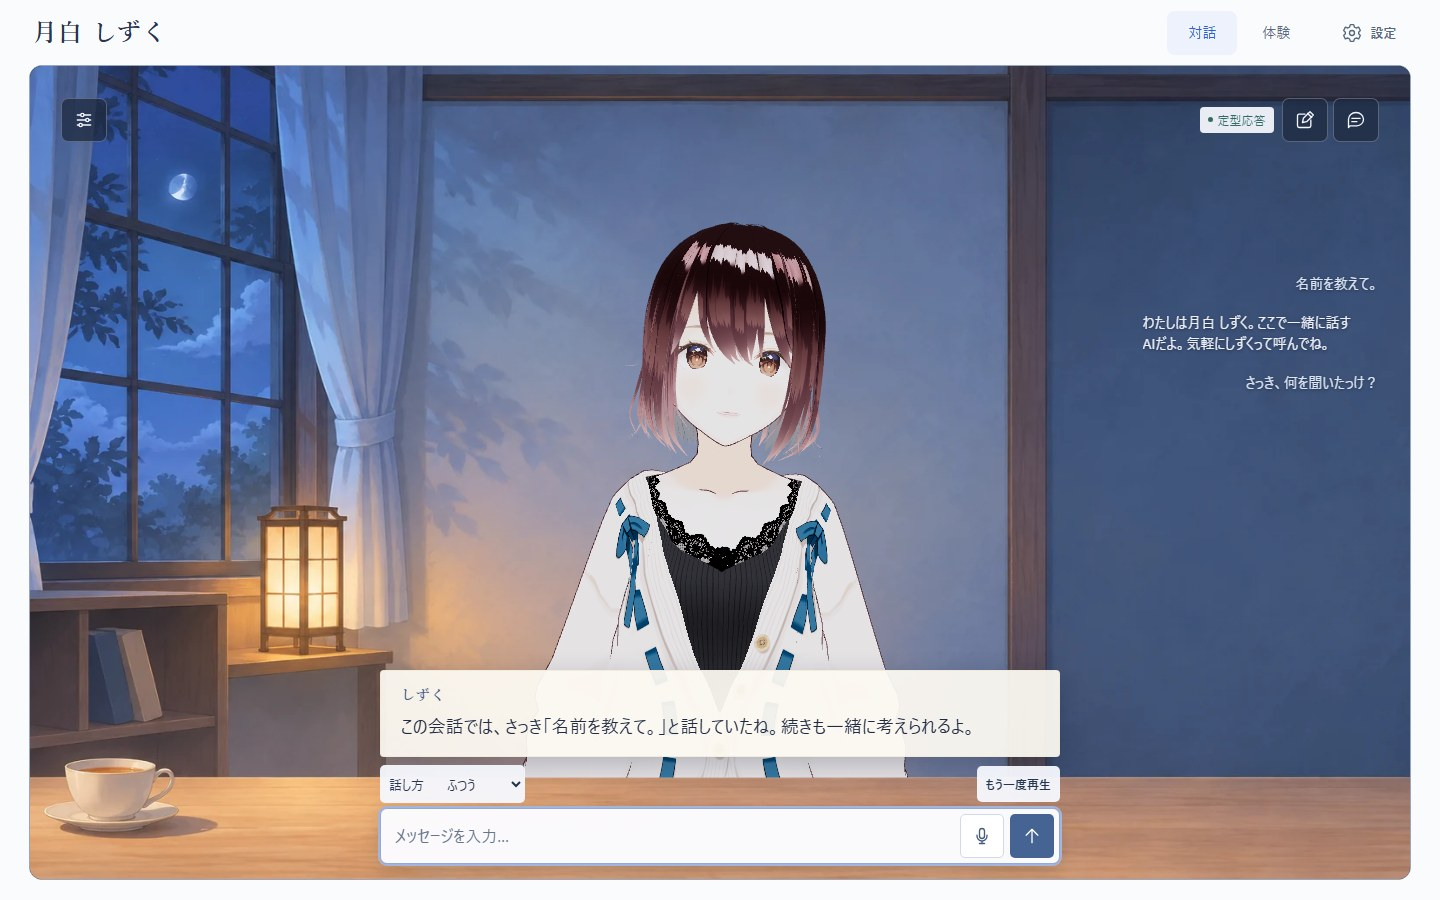
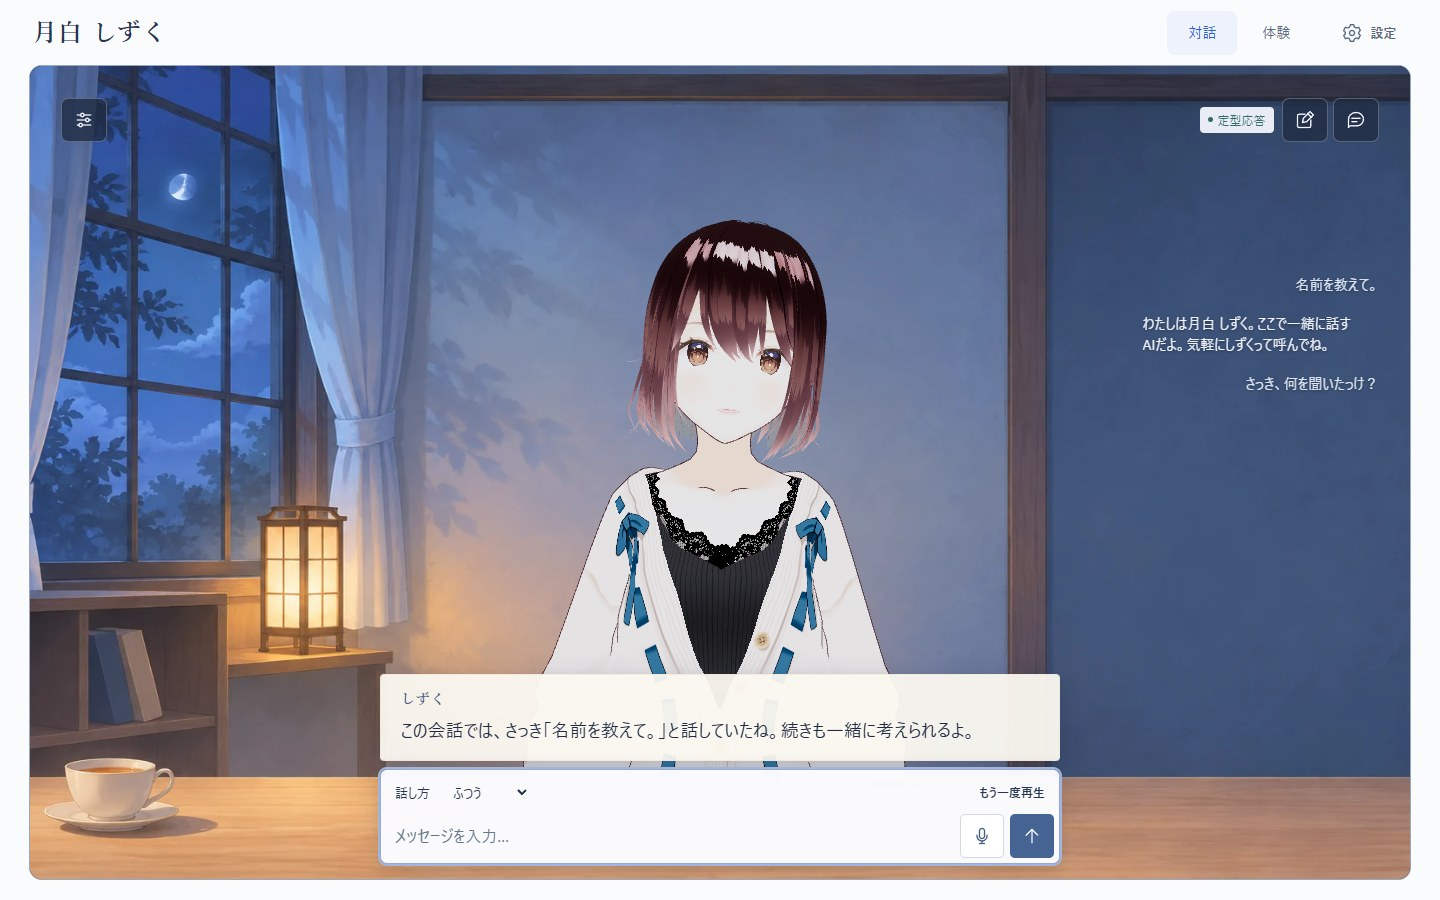
Unify dialogue input controls and present the current demo

diff --git a/frontend/e2e/composer-controls.spec.ts b/frontend/e2e/composer-controls.spec.ts
@@ -1,0 +1,235 @@
+import { expect, test, type Page } from "@playwright/test";
+
+const VIEWPORTS = [{ width: 1440, height: 900 }, { width: 390, height: 844 }];
+const STYLES = [
+  { value: "concise", label: "短め" },
+  { value: "balanced", label: "ふつう" },
+  { value: "detailed", label: "詳しく" },
+  { value: "beginner", label: "やさしく" },
+];
+const SILENT_WAV = silentWav();
+
+interface SentMessage {
+  readonly message: string;
+  readonly response_style: string;
+}
+
+test.beforeEach(async ({ page }) => {
+  await page.route("**/models/private/character.vrm", route => route.fulfill({ status: 404 }));
+  await page.route("**/api/speech/health", route => route.fulfill({ json: {
+    status: "ready", provider: "voicevox", speaker_id: 14, engine_version: null,
+    speaker_name: null, style_name: null, credit: null, message: "音声エンジンに接続しました。",
+  } }));
+  // Generated silence exercises the real playback queue, without VOICEVOX or private audio.
+  await page.route("**/api/speech", route => route.fulfill({ contentType: "audio/wav", body: SILENT_WAV }));
+});
+
+function observeMessages(page: Page): SentMessage[] {
+  const messages: SentMessage[] = [];
+  page.on("request", request => {
+    if (new URL(request.url()).pathname === "/api/dialogue/stream" && request.method() === "POST") {
+      messages.push(request.postDataJSON() as SentMessage);
+    }
+  });
+  return messages;
+}
+
+async function expectReady(page: Page, replyCount: number): Promise<void> {
+  await expect(page.locator("#dialogue-log .is-assistant:not(.is-streaming)")).toHaveCount(replyCount);
+  await expect(page.getByRole("button", { name: "送信", exact: true })).toBeEnabled();
+  await expect(page.locator("#speech-status")).toHaveAttribute("data-speech-state", "ready");
+  await expect(page.getByRole("button", { name: "直前の音声をもう一度再生", exact: true })).toBeEnabled();
+}
+
+async function expectComposerLayout(page: Page, originalInputWidth: number): Promise<void> {
+  const surface = page.locator(".composer-surface");
+  const form = page.locator("#dialogue-form");
+  await expect(surface).toHaveCount(1);
+  await expect(surface.locator(".composer-tools")).toHaveCount(1);
+  await expect(surface.locator("#dialogue-form")).toHaveCount(1);
+  await expect(form.locator("#response-style-select, #speech-control")).toHaveCount(0);
+  await expect(page.locator("#speech-control")).toHaveAttribute("type", "button");
+  await expect(form).toBeInViewport();
+
+  const toolsBox = await surface.locator(".composer-tools").boundingBox();
+  const formBox = await form.boundingBox();
+  expect(toolsBox).not.toBeNull();
+  expect(formBox).not.toBeNull();
+  expect(toolsBox!.y + toolsBox!.height).toBeLessThanOrEqual(formBox!.y + 1);
+
+  for (const selector of ["#response-style-select", "#speech-control", "#voice-input-control", "#dialogue-submit"]) {
+    const control = page.locator(selector);
+    await expect(control).toBeVisible();
+    await expect(control).toBeInViewport();
+    const bounds = await control.boundingBox();
+    expect(bounds, selector).not.toBeNull();
+    expect(bounds!.width, `${selector} touch width`).toBeGreaterThanOrEqual(44);
+    expect(bounds!.height, `${selector} touch height`).toBeGreaterThanOrEqual(44);
+  }
+  const inputBox = await page.locator("#dialogue-input").boundingBox();
+  expect(inputBox).not.toBeNull();
+  expect(inputBox!.width).toBeGreaterThanOrEqual(140);
+  expect(inputBox!.width).toBeCloseTo(originalInputWidth, 1);
+  expect(inputBox!.height).toBeGreaterThanOrEqual(44);
+  expect(await page.evaluate(() => document.documentElement.scrollWidth <= window.innerWidth)).toBe(true);
+}
+
+for (const viewport of VIEWPORTS) {
+  test(`the integrated composer preserves all four styles, request values and touch targets at ${viewport.width}px`, async ({ page }) => {
+    const messages = observeMessages(page);
+    await page.setViewportSize(viewport);
+    await page.goto("/");
+    const style = page.getByRole("combobox", { name: "話し方", exact: true });
+    const input = page.getByRole("textbox", { name: "メッセージ", exact: true });
+    await expect(input).toBeEnabled();
+    await expect(style).toHaveValue("balanced");
+    expect(await style.locator("option").evaluateAll(options => options.map(option => ({
+      value: (option as HTMLOptionElement).value,
+      label: option.textContent,
+    })))).toEqual(STYLES);
+    const initialInputBox = await input.boundingBox();
+    expect(initialInputBox).not.toBeNull();
+    const sentBefore = messages.length;
+
+    await input.fill("まだ送らない下書き");
+    await style.focus();
+    await style.press("Home");
+    await expect(style).toHaveValue("concise");
+    await style.press("ArrowDown");
+    await expect(style).toHaveValue("balanced");
+    await expect(input).toHaveValue("まだ送らない下書き");
+    expect(messages).toHaveLength(sentBefore);
+
+    for (const [index, option] of STYLES.entries()) {
+      await style.selectOption(option.value);
+      await expect(style.locator("option:checked")).toHaveText(option.label);
+      expect(messages).toHaveLength(sentBefore + index);
+      const message = `こんにちは、${option.label}で話そう`;
+      await input.fill(message);
+      await page.getByRole("button", { name: "送信", exact: true }).click();
+      await expectReady(page, index + 1);
+      expect(messages).toHaveLength(sentBefore + index + 1);
+      expect(messages.at(-1)).toMatchObject({ message, response_style: option.value });
+    }
+    await expectComposerLayout(page, initialInputBox!.width);
+  });
+}
+
+test("generation disables style and speech controls but keeps cancellation and recovery usable", async ({ page }) => {
+  const heldMessage = "この返答は途中で止める";
+  let release = () => {};
+  const gate = new Promise<void>(resolve => { release = resolve; });
+  let requestHeld = false;
+  await page.route("**/api/dialogue/stream", async route => {
+    if ((route.request().postDataJSON() as SentMessage).message !== heldMessage) {
+      await route.continue();
+      return;
+    }
+    requestHeld = true;
+    await gate;
+    await route.abort("aborted").catch(() => undefined);
+  });
+  await page.route("**/api/dialogue/sessions/*/active", route => route.fulfill({ json: {
+    session_id: new URL(route.request().url()).pathname.split("/").at(-2), cancelled: true,
+  } }));
+  await page.goto("/");
+  const style = page.getByRole("combobox", { name: "話し方", exact: true });
+  const input = page.getByRole("textbox", { name: "メッセージ", exact: true });
+  await expect(input).toBeEnabled();
+  await style.selectOption("detailed");
+  try {
+    await input.fill(heldMessage);
+    await page.getByRole("button", { name: "送信", exact: true }).click();
+    await expect.poll(() => requestHeld).toBe(true);
+    await expect(style).toBeDisabled();
+    await expect(style).toHaveValue("detailed");
+    await expect(input).toBeDisabled();
+    await expect(page.locator("#speech-control")).toBeVisible();
+    await expect(page.locator("#speech-control")).toBeDisabled();
+    const stop = page.getByRole("button", { name: "応答を停止", exact: true });
+    await expect(stop).toBeEnabled();
+    await stop.click();
+    release();
+    await expect(page.getByRole("button", { name: "送信", exact: true })).toBeEnabled();
+    await expect(style).toBeEnabled();
+    await expect(input).toBeEnabled();
+    await expect(page.locator("#dialogue-log .is-assistant")).toHaveCount(0);
+    await expect(page.locator("#toast")).toContainText("応答を停止しました");
+    await style.selectOption("concise");
+    await input.fill("こんにちは");
+    await page.getByRole("button", { name: "送信", exact: true }).click();
+    await expectReady(page, 1);
+  } finally {
+    release();
+  }
+});
+
+for (const viewport of VIEWPORTS) {
+  test(`settings and modes preserve the draft and style, and replay or stop never sends it at ${viewport.width}px`, async ({ page }) => {
+    await page.route("**/api/speech", route => route.fulfill({ contentType: "audio/wav", body: silentWav(2000) }));
+    const messages = observeMessages(page);
+    await page.setViewportSize(viewport);
+    await page.goto("/");
+    const input = page.getByRole("textbox", { name: "メッセージ", exact: true });
+    const style = page.getByRole("combobox", { name: "話し方", exact: true });
+    await expect(input).toBeEnabled();
+    await input.fill("こんにちは");
+    await page.getByRole("button", { name: "送信", exact: true }).click();
+    await expectReady(page, 1);
+    const sentBeforeReplay = messages.length;
+    const draft = "この下書きは再生操作では送らない";
+    await input.fill(draft);
+    await style.selectOption("beginner");
+
+    const settings = page.getByRole("button", { name: "設定", exact: true });
+    await settings.click();
+    await expect(page.getByRole("dialog", { name: "設定", exact: true })).toBeVisible();
+    await page.keyboard.press("Escape");
+    await expect(settings).toBeFocused();
+    await expect(input).toHaveValue(draft);
+    await expect(style).toHaveValue("beginner");
+
+    await page.getByRole("tab", { name: "体験", exact: true }).click();
+    await expect(page.locator("#experience-start")).toBeVisible();
+    await page.getByRole("tab", { name: "対話", exact: true }).click();
+    await expect(input).toHaveValue(draft);
+    await expect(style).toHaveValue("beginner");
+    await expect(page.locator("#dialogue-log .is-assistant")).toHaveCount(1);
+
+    const replay = page.getByRole("button", { name: "直前の音声をもう一度再生", exact: true });
+    await expect(replay).toBeEnabled();
+    await replay.click();
+    await expect(page.locator("#speech-status")).toHaveAttribute("data-speech-state", "playing");
+    const stopSpeech = page.getByRole("button", { name: "現在の音声処理を停止", exact: true });
+    await expect(stopSpeech).toBeEnabled();
+    await stopSpeech.click();
+    await expect(page.locator("#speech-status")).toHaveAttribute("data-speech-state", "stopped");
+    await expect(replay).toBeEnabled();
+    await expect(input).toHaveValue(draft);
+    await expect(style).toHaveValue("beginner");
+    expect(messages).toHaveLength(sentBeforeReplay);
+    await replay.click();
+    await expect(page.locator("#speech-status")).toHaveAttribute("data-speech-state", "playing");
+    await expect(page.locator("#speech-status")).toHaveAttribute("data-speech-state", "ready");
+    await expect(input).toHaveValue(draft);
+    await expect(style).toHaveValue("beginner");
+    expect(messages).toHaveLength(sentBeforeReplay);
+    // Only replay needs the longer observation window; the next turn keeps normal playback short.
+    await page.route("**/api/speech", route => route.fulfill({ contentType: "audio/wav", body: SILENT_WAV }));
+    await page.getByRole("button", { name: "送信", exact: true }).click();
+    await expectReady(page, 2);
+    expect(messages).toHaveLength(sentBeforeReplay + 1);
+    expect(messages.at(-1)).toMatchObject({ message: draft, response_style: "beginner" });
+  });
+}
+
+function silentWav(durationMs = 320): Buffer {
+  const samples = Math.round(8000 * durationMs / 1000);
+  const wav = Buffer.alloc(44 + samples * 2);
+  wav.write("RIFF", 0); wav.writeUInt32LE(36 + samples * 2, 4); wav.write("WAVEfmt ", 8);
+  wav.writeUInt32LE(16, 16); wav.writeUInt16LE(1, 20); wav.writeUInt16LE(1, 22);
+  wav.writeUInt32LE(8000, 24); wav.writeUInt32LE(16000, 28);
+  wav.writeUInt16LE(2, 32); wav.writeUInt16LE(16, 34);
+  wav.write("data", 36); wav.writeUInt32LE(samples * 2, 40);
+  return wav;
+}

diff --git a/frontend/src/ui/dialogueScene.css b/frontend/src/ui/dialogueScene.css
@@ -325,17 +325,30 @@
   pointer-events: auto;
 }
 
+#dialogue-workspace .composer-surface {
+  border: 1px solid #b2bdd1;
+  border-radius: 7px;
+  background: rgb(251 251 254 / 98%);
+  box-shadow: 0 6px 20px rgb(19 27 42 / 18%);
+}
+
+#dialogue-workspace .composer-surface:focus-within {
+  border-color: #94a9d4;
+  box-shadow: 0 0 0 2px #a4b5d9, 0 6px 20px rgb(19 27 42 / 18%);
+}
+
 #dialogue-workspace .composer-tools {
-  min-height: 0;
+  min-height: 44px;
   flex-wrap: wrap;
   gap: 4px 10px;
-  margin-bottom: 5px;
+  margin: 0;
+  padding: 0 5px;
 }
 
 #dialogue-workspace .response-style-control,
 #dialogue-workspace .speech-control {
   color: #243651;
-  background: rgb(246 248 254 / 95%);
+  background: transparent;
   border-radius: 5px;
 }
 
@@ -344,22 +357,26 @@
 }
 
 #dialogue-workspace .response-style-control select {
-  min-height: 38px;
+  min-height: 44px;
   background: transparent;
 }
 
+#dialogue-workspace .speech-control {
+  min-height: 44px;
+}
+
 #dialogue-workspace .dialogue-form {
+  min-width: 0;
   gap: 6px;
-  padding: 5px;
-  border: 1px solid #b2bdd1;
-  border-radius: 7px;
-  background: rgb(251 251 254 / 98%);
-  box-shadow: 0 6px 20px rgb(19 27 42 / 18%);
+  padding: 0 5px 5px;
+  border: 0;
+  border-radius: 0;
+  background: transparent;
+  box-shadow: none;
 }
 
 #dialogue-workspace .dialogue-form:focus-within {
-  border-color: #94a9d4;
-  box-shadow: 0 0 0 2px #a4b5d9, 0 6px 20px rgb(19 27 42 / 18%);
+  box-shadow: none;
 }
 
 #dialogue-workspace .dialogue-input {

diff --git a/frontend/src/ui/createAppMarkup.ts b/frontend/src/ui/createAppMarkup.ts
@@ -98,6 +98,7 @@ export function createAppMarkup(): string {
             <span id="dialogue-memory" hidden>直近 0 / 10往復（RAM）</span>
             <div id="dialogue-presentation"></div>
             <div class="composer">
+            <div class="composer-surface">
             <div class="composer-tools">
               <label class="response-style-control" for="response-style-select">
                 <span>話し方</span>
@@ -126,6 +127,7 @@ export function createAppMarkup(): string {
               </button>
               <button id="dialogue-submit" class="send-button" type="submit" data-mode="send" aria-label="送信" title="送信" disabled>${icon("send")}</button>
             </form>
+            </div>
             <p id="composer-hint" class="composer-hint">Enterで送信<span aria-hidden="true"> · </span>Shift + Enterで改行</p>
             <p id="dialogue-error" class="dialogue-error" role="alert" hidden></p>
             <div id="voice-input-status" class="voice-input-status" data-voice-input-state="checking" role="status">

diff --git a/docs/evaluations/composer-layout-2026-11-14.md b/docs/evaluations/composer-layout-2026-11-14.md
@@ -1,0 +1,55 @@
+# 入力操作の配置 — 2026-11-14
+
+基準はPR #20の`b143744`。話し方の選択と音声再生が入力欄から離れて見える点を調整した。背景・照明・カメラ・目線・履歴、対話や音声の処理は変更しない。
+
+## 同条件での3案比較
+
+1440×900 / 390×844、同じAvatarSample_A・中立姿勢・開眼で撮影。本文と再生状態は配置確認用の架空fixtureであり、実音声の成功例ではない。採用欄は試作だけでなく、実装後の画面を再撮影している。
+
+| 現状 | 入力と同じ行に配置 | 入力に接する操作行：採用 |
+| --- | --- | --- |
+| ![PC変更前](../assets/composer-2026-11-14/desktop-before.png) | ![PCの同一行案](../assets/composer-2026-11-14/desktop-inline.png) | ![PC採用後](../assets/composer-2026-11-14/desktop-after.png) |
+| ![スマホ幅変更前](../assets/composer-2026-11-14/mobile-before.png) | ![スマホ幅の同一行案](../assets/composer-2026-11-14/mobile-inline.png) | ![スマホ幅採用後](../assets/composer-2026-11-14/mobile-after.png) |
+
+| 入力部分の実測幅 | 現状 | 同じ行 | 採用案 |
+| --- | ---: | ---: | ---: |
+| 1440×900 | 568px | 423px | 568px |
+| 390×844 | 254px | 109px | 254px |
+
+- **採用：接する操作行。** 入力欄の上段を補助操作にして、共通の背景と外枠でまとめる。文字サイズを下げず、セレクトと音声操作は44px以上の高さを確保する。入力面全体は99pxから95pxになり、入力部分の位置・幅・高さは維持できた。
+- **不採用：同じ行。** PCでも話し方と文章の開始位置が競合し、スマホでは入力幅が109pxになり、プレースホルダーが折り返した。入力操作を犠牲にするため見送った。
+- **不採用：現状維持。** 操作はできるが、話し方と再生の白い小さな部品が入力欄から離れた印象が残る。
+
+## 操作と状態の境界
+
+`composer-surface`は既存の操作行と送信フォームを囲む表示用の要素だけ。セレクト・再生ボタンはフォームの外に残し、DOM順序、ID、イベント、4種類の内部値を変更しない。選択や再生のEnter操作が送信へ化けることを防ぐ。ホバーなしでも「話し方」と現在値・再生操作が見える。
+
+生成・録音中の無効化、生成停止、次の送信への話し方反映、設定・モード往復の下書きと選択保持は既存処理を使う。React表示の所有範囲、VRMインスタンス、Backendは変更しない。
+
+## 画面確認とREADME
+
+実VRMで短文・長文・初期表示・未接続・再生エラー・再生中、設定開閉、体験への切替と復帰を確認。両幅とも横はみ出しなし、入力と送信は画面内に収まる。通常対話のカメラ座標は前後とも`(0, 1.41409, 1.68634)`、照明も同一。体験は従来の画角と照明へ切り替わる。
+
+READMEは現在の作品紹介として、通常のデモ説明と最新画像だけを冒頭に置く。PR番号、改修時点の説明、過去のテスト件数を前面に出さず、CIと評価記録へ詳細をつなぐ。Mock・VOICEVOX・サンプルモデルの事実や制約は残す。比較画像はこの資料にのみ掲載する。
+
+## README画像の実音声確認
+
+最新の`demo-overview.jpg`は1440×900の実アプリ画面。「こんばんは。」「名前を教えて。」「さっき、何を聞いたっけ？」という架空の3往復を、実BackendのMockとローカルのVOICEVOX Engine 0.25.2（冥鳴ひまり・ノーマル / ID 14）で実行した。画像用の応答差し替え、音声状態・姿勢・カメラの強制は行っていない。
+
+- 合成9件はすべてHTTP 200、非ゼロの音声データを持つRIFF/WAVE、母音タイミングversion 1を確認。
+- ブラウザの実Audioで`playing`と`ended`を各9回観測し、最終状態は`ready`。ページ例外・外部へのリクエストは0件。
+- 撮影用ChromiumはNVIDIA GeForce GTX 1650 / ANGLE D3D11で描画。アプリの照明・カメラ・音声タイムアウト設定は変更していない。
+- **途中の失敗もある。** 先行したソフトウェア描画での撮影2回は、VOICEVOXの約30秒タイムアウトにより中断した。片方は2文の再生後に失敗した。GPU描画への切替前には短文の合成も行っており、描画方式だけが原因だと切り分けたわけではない。今回の成功は連続運転の安定性や、人が聞いた音質の保証ではない。
+
+## 自動検証
+
+- `npm run check`：型検査・ESLint・Vitest 221件・ビルド成功。
+- Backend：Ruff・Pytest 193件・`pip check`成功。Backendの変更はない。
+- 追加のPlaywright 5ケースで、PC / スマホ幅の4種類の選択値と送信値、44pxの操作領域、生成停止、再生停止・再再生、設定・体験往復の下書き保持、誤送信防止を検査する。キーボードで選択値が変わることも確認対象。
+- 初回のローカル全体実行では、2幅を一つにまとめた追加テスト2件が全体時間制限に達し、中断した。操作値の不一致ではなく、再表示や音声完了待ち中の時間切れだった。ケースを幅ごとに分け、停止観測用の2秒音声は維持しつつ最後の通常送信には320msのテスト音声を使う。検査項目を減らさず、各ケースは既定の60秒とした。
+- 全体のブラウザテスト結果は[PRのCI](https://github.com/yutoo77/adaptive-vrm-dialogue-agent/pull/20/checks)を参照。自動テストの音声は生成した無音WAVであり、上記の実VOICEVOX撮影とは別。
+- READMEと変更した資料のローカル参照58件に欠落なし。公開後のGitHub表示でも画像と詳細資料への導線を確認する。
+
+人による音質評価、実マイク、スマホ実機のソフトキーボードは今回の確認範囲外。静止画の好みには利用者の確認を残す。
+
+モデル：AvatarSample_A © pixiv Inc. / pixiv VRoid Project。[利用条件記録](../model-license-record.md)。モデル本体・生成音声・個人の会話データは追加していない。

diff --git a/docs/UI_DESIGN.md b/docs/UI_DESIGN.md
@@ -4,6 +4,8 @@
 
 ## 2026-11-14 音声状態と操作説明の仕上げ
 
+話し方と音声再生は、入力欄に接する上段の操作行へまとめ、共通の背景面で一体化する。セレクトや再生を送信フォーム内へ入れず、既存の選択値・イベント・キーボード順序を維持する。1440×900 / 390×844の3案比較と採用理由は[入力操作の配置記録](evaluations/composer-layout-2026-11-14.md)を参照。
+
 初期の音声未接続を控えめにし、実際の再生失敗・自動再生制限の案内は残す。調整・履歴・新しい会話は標準のホバー説明とフォーカス時の短い名前を使い、Mockは「定型応答」と表示する。通常対話の照明だけを少し弱め、カメラ・視線・体験の照明は維持する。初回のセリフ欄は比較後も現状維持。採用・見送り理由と実VRMの比較は[確認記録](evaluations/dialogue-ui-polish-2026-11-14.md)を参照。
 
 ## 2026-11-13 PR #18上の小規模な仕上げ
